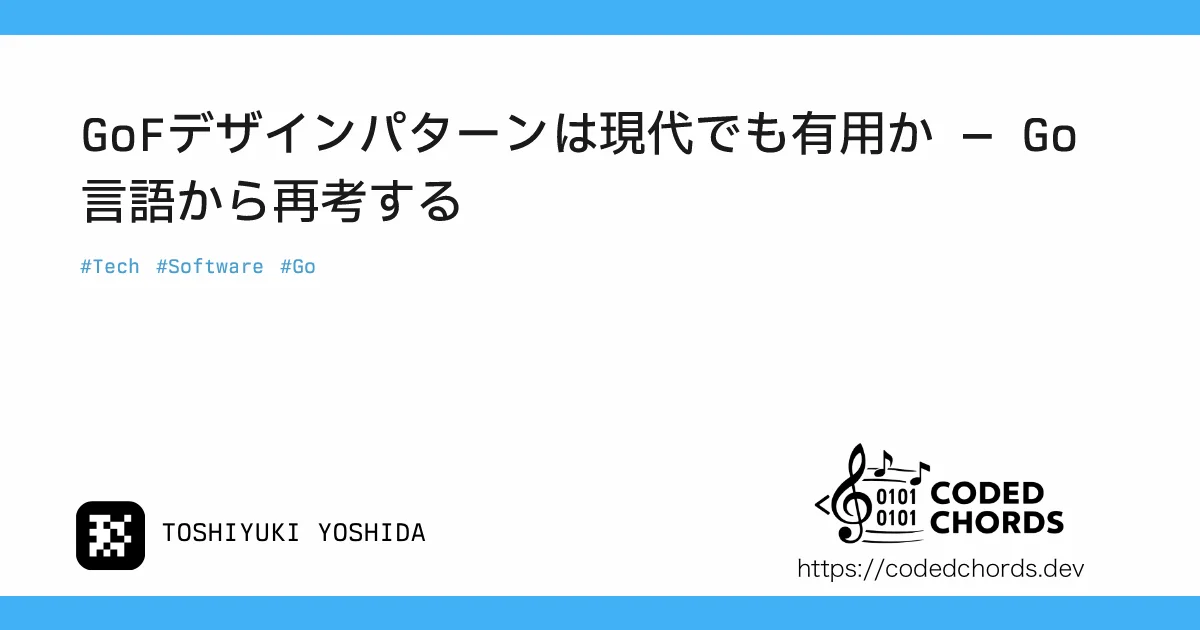
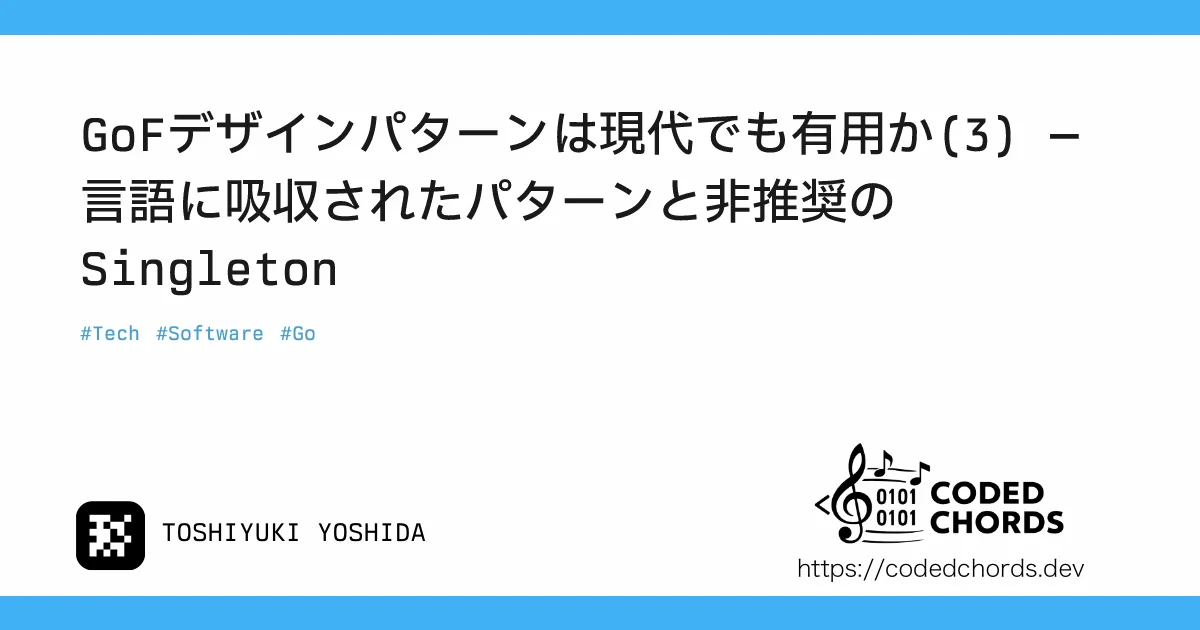
content: refactor GoF design patterns series

diff --git a/content/blog/2026/04/gof-design-patterns/04-essential-patterns/index.md b/content/blog/2026/04/gof-design-patterns/04-essential-patterns/index.md
@@ -1,0 +1,97 @@
++++
+title = "GoFデザインパターンは現代でも有用か(4) — 現代でも有用なパターンとまとめ"
+description = """GoFの23パターンのうち、OOPに依存しない11のパターンは現代でも有用です。\
+なぜ生き残ったのかを分析し、デザインパターンの本質的価値を考察します。"""
+date = 2026-04-04T09:00+09:00
+draft = true
+
+[taxonomies]
+tags = ["Tech", "Software", "Go"]
+
+[extra]
+social_media_card = "ogp.webp"
+local_image = "cover.webp"
++++
+
+<!-- textlint-disable -->
+
+{{ image(src="cover.webp", alt="Cover") }}
+
+<!-- textlint-enable -->
+
+<details>
+<summary>Table of Contents</summary>
+<!-- toc -->
+</details>
+
+## 前回までの振り返り
+
+[第1回](@/blog/2026/04/gof-design-patterns/01-paradigm-shift/index.md)では、OOPのパラダイムシフトとGoFデザインパターンの誕生、そしてGo言語による脱OOPの流れを振り返りました。
+
+[第2回](@/blog/2026/04/gof-design-patterns/02-unnecessary-patterns/index.md)では、Go言語の3つの設計方針がGoFの23パターンのうち10パターンを不要にしたことを検証しました。
+
+[第3回](@/blog/2026/04/gof-design-patterns/03-useful-patterns/index.md)では、残る13パターンのうち、言語機能として取り込まれたIteratorと、現代の設計手法により非推奨となったSingletonを検討しました。
+
+<!-- textlint-disable -->
+
+| 分類                            | パターン                                                                                                            | 状態     |
+| ------------------------------- | ------------------------------------------------------------------------------------------------------------------- | -------- |
+| OOPの制約への処方箋（第2回）    | Template Method, Factory Method, Abstract Factory, Bridge, Prototype, Memento, Strategy, Command, Visitor, Observer | 不要     |
+| 言語機能として吸収（第3回）     | Iterator                                                                                                            | 意識不要 |
+| 設計手法の進化で非推奨（第3回） | Singleton                                                                                                           | 非推奨   |
+
+<!-- textlint-enable -->
+
+本記事では、残る11のパターンがなぜ現代でも有用なのかを分析し、シリーズ全体の結論としてデザインパターンの本質的価値を考察します。
+
+## 現代でも有用なパターン
+
+残る11のパターンは、継承と参照セマンティクスのいずれにも依存していません。ここまで見てきたパターンがOOPの言語メカニズムへの処方箋だったのに対し、これらはOOPとは無関係に存在する、ソフトウェア設計の普遍的な課題を解決するものです。つまり、GoFの23パターンの中にはOOPの処方箋と、言語に依存しない設計の原則 — ソフトウェアアーキテクチャの原則 — が混在していたのです。
+
+生き残ったパターンを、その理由ごとに分類します。
+
+### 小さな部品を合成して大きな振る舞いを作る
+
+Go言語の設計思想「継承より合成（composition over inheritance）」と直結する分類です。小さな部品を組み合わせて複雑な構造や振る舞いを構築するという原則は、プログラミングパラダイムを問わず有効です。
+
+- **Composite** — 再帰的なツリー構造を合成し、個々の要素と合成要素を同一視する。ファイルシステムやUIコンポーネントなど、階層構造を持つあらゆる領域で使われる
+- **Decorator** — 既存の機能に新しい責務を動的に重ね合わせる。Go言語では`http.Handler`をラップするミドルウェアパターンとして標準的に使われている
+- **Chain of Responsibility** — 処理を連鎖させ、リクエストを適切なハンドラに委譲する。Go言語のHTTPミドルウェアチェーンそのもの
+- **Builder** — 複雑なオブジェクトを段階的に構築する。Go言語ではfunctional optionsパターンとして定着している
+
+### コンポーネント間の境界を制御する
+
+ソフトウェアの規模が大きくなると、コンポーネント間の依存関係やインターフェースの不一致が複雑さの主要因になります。この問題に対処するパターンは、言語やパラダイムに関係なく必要です。
+
+- **Adapter** — 互換性のないインターフェース同士を橋渡しする。外部ライブラリやレガシーシステムとの統合で常に必要になる
+- **Facade** — 複雑なサブシステムに対して統一的な窓口を提供する。Go言語ではパッケージの公開APIを絞ることで自然に実現される
+- **Proxy** — 対象へのアクセスを制御する代理を提供する。遅延初期化、アクセス制御、ログ記録など用途が幅広い
+- **Mediator** — 多対多のオブジェクト間の相互作用を仲介者に集約し、疎結合にする。イベントバスやメッセージブローカーの設計に通じる
+
+### 状態に応じて振る舞いを切り替える
+
+- **State** — 内部状態に応じてオブジェクトの振る舞いを変更する。Go言語ではStateインターフェースを定義し、状態ごとに異なる型で実装する。有限状態マシンの設計に直結する
+
+### 特定領域の問題を解決する
+
+- **Flyweight** — 多数の細粒度オブジェクトの共有によりメモリ使用量を削減する。文字列のインターン化やキャッシュなど、メモリ最適化が必要な場面で有効
+- **Interpreter** — 言語の文法を定義し解釈する。DSL（ドメイン固有言語）や設定ファイルのパーサー、式評価エンジンなど、特定の用途で使われる
+
+## まとめ — デザインパターンの本質的価値とは何だったのか
+
+GoFの功績は、コード内で繰り返し現れるパターンに名前を付け、開発者の共通言語を確立したことにあります。「ここはObserverで」「Adapterを挟もう」と言えば設計意図が伝わる。この語彙の確立は、ソフトウェア開発の生産性に大きく貢献しました。
+
+しかし、本記事の分析が示すように、GoFの23パターンには性質の異なる2種類のものが混在していました。
+
+1つは、パラダイムシフトを起こしたばかりのOOPの未成熟さをカバーするための**実装の工夫**です。継承の副作用を管理するTemplate MethodやVisitor、参照セマンティクスを補完するPrototypeやMemento。これらはOOPという特定のパラダイムの制約の中で必要だった処方箋であり、パラダイムが変われば不要になるものでした。
+
+もう1つは、合成による構築、境界の制御といった**普遍的な設計原則**です。CompositeやDecorator、AdapterやFacadeは、OOPとは無関係に、ソフトウェアの複雑さに対処するためのアーキテクチャの知恵です。
+
+GoFの問題は、この2つがあまり区別されず、同列にカタログ化されたことです。そして当時、OOPが成熟した段階を経験したプログラマが少なかったことも相まって、GoFは必要以上に神格化されました。
+本来はコードレベルの実装パターンであるにもかかわらず、当時は業務システムのアーキテクチャを語る場面でGoFのパターン名が持ち出されるような頓珍漢なエンジニアさえ出現しました。デザインパターンは「設計パターン」と訳されますが、実態は「コードパターン」であったことに留意すべきです。
+
+Go言語が示したのは、OOPの制約に起因するパターンは言語設計で解消できるということです。そして残った11のパターンこそが、GoFの本質的な遺産 — 言語やパラダイムを超えた設計原則 — だったと言えます。
+
+ただし、この結論すら永続的なものではありません。Rustの列挙型とパターンマッチングはStateパターンを言語機能として吸収しつつありますし、名前付き引数やデフォルト値を持つ言語ではBuilderの必要性が薄れます。今日「普遍的な設計原則」に見えるものも、将来の言語やパラダイムの進化によって、さらに整理されていく可能性があります。
+
+デザインパターンの本質的な価値は、23のカタログそのものにはありませんでした。ソフトウェアの複雑さに名前を付け、共有可能な知識として体系化しようとした試み — その営みこそが、GoFの真の貢献だったのではないでしょうか。
